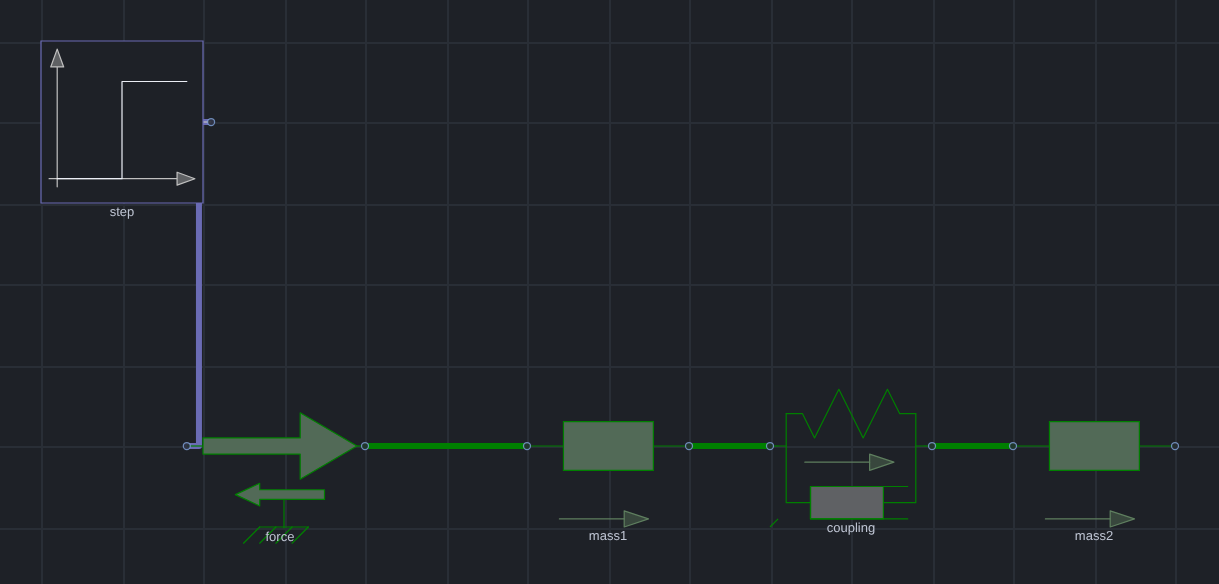
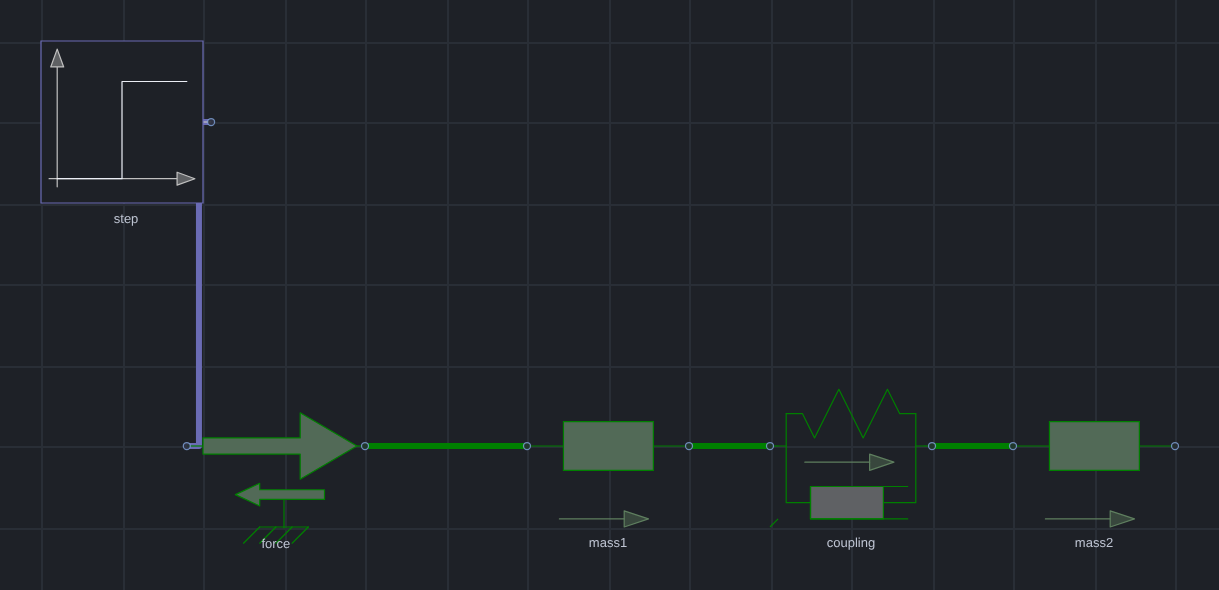
Place names against the ink, pins included, not against the artwork box
Reported again from a rendered page: a name sitting on the symbol, and a name
sitting on a wire. Both are the same fault -- the pass was measuring the wrong
boxes.

The box came from `instanceOutlineBounds`, which covers the icon's own graphics.
That is right for the selection highlight, and wrong for a name: the renderer also
draws a stub and a marker at every DECLARED PORT, and for a great many classes the
port is not on the drawing. SineVoltage's `signalSource` is declared at {80.5,79}
while its artwork stops at y = 69.8, so a name placed against the artwork box
landed on that pin; the same shape of gap appears on a Fluid source's port, a
machine's support flange, every conditional connector. The first version also had
no wires as obstacles at all, which is how a name ended up under a return wire.

- `instanceInkBounds` (new, in canvas.ts): the artwork UNION every declared port
  position, mapped through the extent and the instance's own rotation -- the same
  transform chain as before, with the pins added.
- The editor uses it for both the anchor and the obstacles, inflated by
  `LABEL_CLEARANCE` (4 px), which is the half-width of a pin marker: `drawPorts`
  draws a ring of 3.5 px, or 6 px for the pin under the pointer.
- `LABEL_GAP` 3 -> 6 px, and the wire padding is now a named `WIRE_CLEARANCE`
  shared with the tests instead of a local constant.

Tests, and what each one is worth:

- `test/editor.test.mjs`: a name forced to a SIDE of its symbol (neighbours block
[…]

diff --git a/src/view/editor.ts b/src/view/editor.ts
@@ -40,7 +40,9 @@ import type {
 import { emptyDiagram } from "../modelica/types";
 import { currentTheme, type Theme } from "../render/theme";
 import {
+  LABEL_CLEARANCE,
   LABEL_MIN_SCREEN,
+  WIRE_CLEARANCE,
   labelFont,
   labelFontPx,
   placeLabels,
@@ -61,6 +63,7 @@ import {
   diagramBounds,
   instanceBounds,
   instanceHitBounds,
+  instanceInkBounds,
   instanceOutlineBounds,
   mul,
   placementTransform,
@@ -2735,10 +2738,19 @@ export class SchematicEditor {
     const vt = viewportTransform(vp, dpr);
     const requests: LabelRequest[] = [];
     const occupied: Rect[] = [];
+    // Ink, not the outline: the renderer draws a stub and a pin marker at every
+    // declared port, and those sit outside the artwork for any class whose port is
+    // not on the drawing. The clearance covers the marker itself, so a name placed
+    // against this box clears the pin as well as the drawing.
+    const inflate = (b: [number, number, number, number]): Rect => ({
+      x1: b[0] - LABEL_CLEARANCE,
+      y1: b[1] - LABEL_CLEARANCE,
+      x2: b[2] + LABEL_CLEARANCE,
+      y2: b[3] + LABEL_CLEARANCE,
+    });
     for (const inst of this.model.components) {
       const def = this.cb.lookup(inst.className);
-      const drawn = transformedBounds(vt, ...instanceOutlineBounds(inst, def));
-      const box: Rect = { x1: drawn[0], y1: drawn[1], x2: drawn[2], y2: drawn[3] };
+      const box = inflate(transformedBounds(vt, ...instanceInkBounds(inst, def)));
       occupied.push(box);
       if (!inst.id) continue;
       // The same gate the renderer applies: a name that will not be drawn is not
@@ -2752,19 +2764,18 @@ export class SchematicEditor {
     }
     if (requests.length === 0) return new Map();
     // A wire is a line, and the label box is a rectangle: padding the segment's
-    // bounding box by a couple of pixels is what makes the test read as "on the
-    // wire" rather than "exactly inside its zero-height box".
-    const WIRE_PAD = 3;
+    // bounding box is what makes the test read as "on the wire" rather than
+    // "exactly inside its zero-height box".
     for (const conn of this.model.connections) {
       const pts = this.connectionPoints(conn);
       for (let i = 0; i + 3 < pts.length; i += 2) {
         const a = apply(vt, pts[i], pts[i + 1]);
         const b = apply(vt, pts[i + 2], pts[i + 3]);
         occupied.push({
-          x1: Math.min(a[0], b[0]) - WIRE_PAD,
-          y1: Math.min(a[1], b[1]) - WIRE_PAD,
-          x2: Math.max(a[0], b[0]) + WIRE_PAD,
-          y2: Math.max(a[1], b[1]) + WIRE_PAD,
+          x1: Math.min(a[0], b[0]) - WIRE_CLEARANCE,
+          y1: Math.min(a[1], b[1]) - WIRE_CLEARANCE,
+          x2: Math.max(a[0], b[0]) + WIRE_CLEARANCE,
+          y2: Math.max(a[1], b[1]) + WIRE_CLEARANCE,
         });
       }
     }

diff --git a/src/render/canvas.ts b/src/render/canvas.ts
@@ -1629,6 +1629,49 @@ function drawPlaceholder(
 
 
 /**
+ * The box a component's name must clear: its artwork AND its pins.
+ *
+ * `instanceOutlineBounds` covers the icon's own graphics, which is right for the
+ * selection highlight and the debug overlay. It is not enough for a label: the
+ * renderer also draws a connector stub and a pin marker at every declared port, and
+ * those sit OUTSIDE the artwork for the many classes whose port is not on the
+ * drawing — SineVoltage's `signalSource` at {80.5,79} against artwork that stops at
+ * y = 69.8, a Fluid source's port below its symbol, a machine's support flange.
+ * A name placed against the artwork box then lands on the pin, which is what "the
+ * label overlaps the symbol" turned out to be.
+ */
+export function instanceInkBounds(
+  inst: ComponentInstance,
+  classDef: ComponentClass | undefined
+): [number, number, number, number] {
+  const art = iconArtworkBounds(classDef);
+  let box: [number, number, number, number] | undefined = art ? [...art] : undefined;
+  for (const pos of Object.values(classDef?.portPositions ?? {})) {
+    if (!box) box = [pos[0], pos[1], pos[0], pos[1]];
+    else {
+      box[0] = Math.min(box[0], pos[0]);
+      box[1] = Math.min(box[1], pos[1]);
+      box[2] = Math.max(box[2], pos[0]);
+      box[3] = Math.max(box[3], pos[1]);
+    }
+  }
+  if (!box) return instanceBounds(inst);
+  const [ex1, ey1, ex2, ey2] = inst.placement.extent;
+  const sx = (ex2 - ex1) / (2 * ICON_EXTENT);
+  const sy = (ey2 - ey1) / (2 * ICON_EXTENT);
+  const cx = (ex1 + ex2) / 2;
+  const cy = (ey1 + ey2) / 2;
+  const out: [number, number, number, number] = [
+    cx + sx * box[0],
+    cy + sy * box[1],
+    cx + sx * box[2],
+    cy + sy * box[3],
+  ];
+  const rot = inst.placement.rotation ?? 0;
+  return rot ? rotateBoxAbout(out, cx, cy, rot) : out;
+}
+
+/**
  * Bounding box of an instance in DIAGRAM coordinates.
  *
  * A `Placement`'s extent already states where the component occupies space in

diff --git a/src/render/labels.ts b/src/render/labels.ts
@@ -28,6 +28,18 @@ export interface Rect {
 /** The side of its symbol a label ended up on. */
 export type LabelSide = "below" | "above" | "right" | "left";
 
+/**
+ * How far a label keeps clear of a symbol's ink, in device pixels.
+ *
+ * The ink box already includes the pins; this is the half-width of a pin MARKER -- a
+ * ring, or the triangle an input or output connector is drawn with -- plus the stroke
+ * it is drawn with. A name placed exactly on the box edge sat on the marker.
+ */
+export const LABEL_CLEARANCE = 4;
+
+/** How much room a wire is given when it is treated as an obstacle. */
+export const WIRE_CLEARANCE = 3;
+
 /** The order the sides are tried in: below first, so the common case is unchanged. */
 export const LABEL_SIDES: LabelSide[] = ["below", "above", "right", "left"];
 
@@ -40,8 +52,14 @@ export const LABEL_SIDES: LabelSide[] = ["below", "above", "right", "left"];
  */
 export const LABEL_MIN_SCREEN = 14;
 
-/** Gap between the symbol's drawn edge and its name, in device pixels. */
-export const LABEL_GAP = 3;
+/**
+ * Gap between the symbol's edge and its name, in device pixels.
+ *
+ * Six rather than three: the box the label clears already includes the pins, and a pin
+ * marker is a ring or a triangle a few pixels across, so the gap is what keeps the
+ * name off the marker rather than level with it.
+ */
+export const LABEL_GAP = 6;
 
 /**
  * Height of the label's box as a multiple of its font size.
